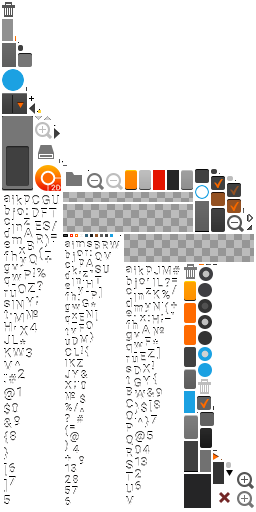
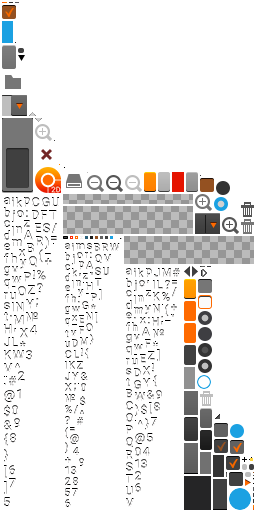
ui fixing

Changed region(s): [[0.0, 0.0, 1.0, 1.0]]

diff --git a/src/com/uwsoft/editor/mvc/view/ui/box/UIGridBox.java b/src/com/uwsoft/editor/mvc/view/ui/box/UIGridBox.java
@@ -19,10 +19,10 @@
 package com.uwsoft.editor.mvc.view.ui.box;
 
 
-import com.badlogic.gdx.scenes.scene2d.ui.Label;
+import com.kotcrab.vis.ui.VisUI;
 import com.kotcrab.vis.ui.util.Validators;
 import com.kotcrab.vis.ui.widget.VisLabel;
-import com.kotcrab.vis.ui.widget.VisTextButton;
+import com.kotcrab.vis.ui.widget.VisTextField;
 import com.kotcrab.vis.ui.widget.VisValidableTextField;
 import com.uwsoft.editor.mvc.event.KeyboardListener;
 
@@ -31,14 +31,13 @@ import com.uwsoft.editor.mvc.event.KeyboardListener;
  */
 public class UIGridBox extends UIBaseBox {
 
+    public static final String GRID_SIZE_TEXT_FIELD_UPDATED = "com.uwsoft.editor.mvc.view.ui.box.UIGridBox" + ".GRID_SIZE_TEXT_FIELD_UPDATED";
     private VisValidableTextField gridSizeTextField;
 
-    public static final String GRID_SIZE_TEXT_FIELD_UPDATED = "com.uwsoft.editor.mvc.view.ui.box.UIGridBox" + ".GRID_SIZE_TEXT_FIELD_UPDATED";
-
     public UIGridBox() {
-       super();
-       init();
-       setVisible(false);
+        super();
+        init();
+        setVisible(false);
     }
 
     @Override
@@ -50,12 +49,13 @@ public class UIGridBox extends UIBaseBox {
         VisLabel lbl = new VisLabel("Grid Size:");
         add(lbl).padRight(4);
         gridSizeTextField = new VisValidableTextField(new Validators.IntegerValidator());
+        gridSizeTextField.setStyle(VisUI.getSkin().get("light", VisTextField.VisTextFieldStyle.class));
         gridSizeTextField.setRightAligned(true);
         gridSizeTextField.addListener(new KeyboardListener(GRID_SIZE_TEXT_FIELD_UPDATED));
         add(gridSizeTextField).width(60);
     }
 
     public void setGridSize(int gridSize) {
-        gridSizeTextField.setText(gridSize+"");
+        gridSizeTextField.setText(gridSize + "");
     }
 }

diff --git a/src/com/uwsoft/editor/mvc/view/ui/box/UIResolutionBox.java b/src/com/uwsoft/editor/mvc/view/ui/box/UIResolutionBox.java
@@ -69,7 +69,7 @@ public class UIResolutionBox extends VisTable {
     public void update() {
         clear();
         addSeparator(true).padRight(6);
-        visSelectBox = new VisSelectBox<>();
+        visSelectBox = new VisSelectBox<>("white");
         Array<ResolutionEntryVO> resolutionEntryVOs = new Array<>();
         ResolutionEntryVO newResolutionEntryVO = new ResolutionEntryVO();
         newResolutionEntryVO.name = "Create New ...";

diff --git a/src/com/uwsoft/editor/mvc/view/ui/box/UIZoomBox.java b/src/com/uwsoft/editor/mvc/view/ui/box/UIZoomBox.java
@@ -68,7 +68,7 @@ public class UIZoomBox extends VisTable {
         zoomOutBtn.addListener(new UIZoomBoxButtonClickListener(1));
         add(zoomOutBtn).padRight(11).height(25);
         //
-        visSelectBox = new VisSelectBox<>();
+        visSelectBox = new VisSelectBox<>("white");
         visSelectBox.setItems("200%", "100%", "50%", "25%");
         add(visSelectBox).width(114);
     }
